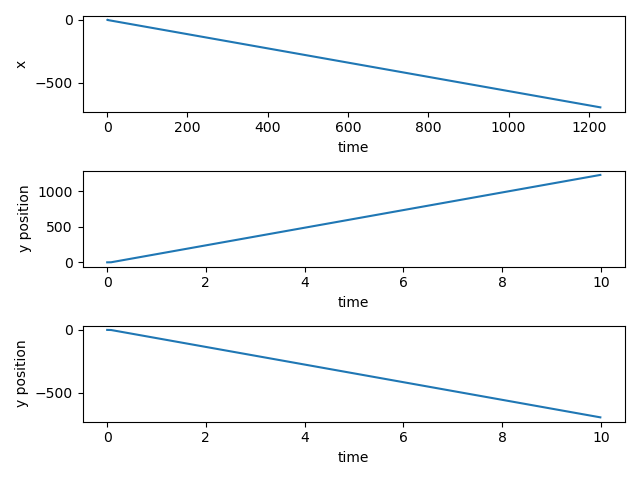
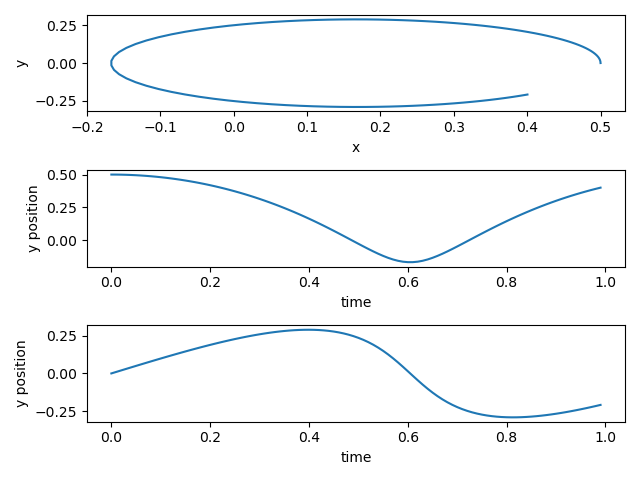
tst

diff --git a/doc/src/gravity/Programs/TwodimSolver.py b/doc/src/gravity/Programs/TwodimSolver.py
@@ -36,15 +36,18 @@ n = ceil(tfinal/DeltaT)
 t = np.zeros(n)
 v = np.zeros((n,2))
 r = np.zeros((n,2))
+E = np.zeros(n)
 # Constants of the model
 m = 1.0   # mass, you can change these
 alpha = 1.0
 # Initial conditions as compact 2-dimensional arrays
-x0 = 0.1; y0= 0.1
+x0 = 0.5; y0= 0.
 r0 = np.array([x0,y0]) 
-v0 = np.array([0.0,0.5])
+v0 = np.array([0.0,1.0])
 r[0] = r0
 v[0] = v0
+rabs = sqrt(sum(r[0]*r[0]))
+E[0] = 0.5*m*(v[0,0]**2+v[0,1]**2)-alpha/rabs
 # Start integrating using the Velocity-Verlet  method
 for i in range(n-1):
     # Set up the acceleration
@@ -55,11 +58,12 @@ for i in range(n-1):
     rabs = sqrt(sum(r[i+1]*r[i+1]))
     anew = -alpha*r[i+1]/(rabs**3)
     v[i+1] = v[i] + 0.5*DeltaT*(a+anew)
+    E[i+1] = 0.5*m*(v[i+1,0]**2+v[i+1,1]**2)-alpha/rabs
     t[i+1] = t[i] + DeltaT
 # Plot position as function of time
 fig, ax = plt.subplots(3,1)
-ax[0].set_xlabel('time')
-ax[0].set_ylabel('x')
+ax[0].set_ylabel('y')
+ax[0].set_xlabel('x')
 ax[0].plot(r[:,0],r[:,1])
 ax[1].set_xlabel('time')
 ax[1].set_ylabel('y position')
@@ -71,4 +75,4 @@ ax[2].plot(t,r[:,1])
 fig.tight_layout()
 save_fig("2DimHOVV")
 plt.show()
-
+print(E)
